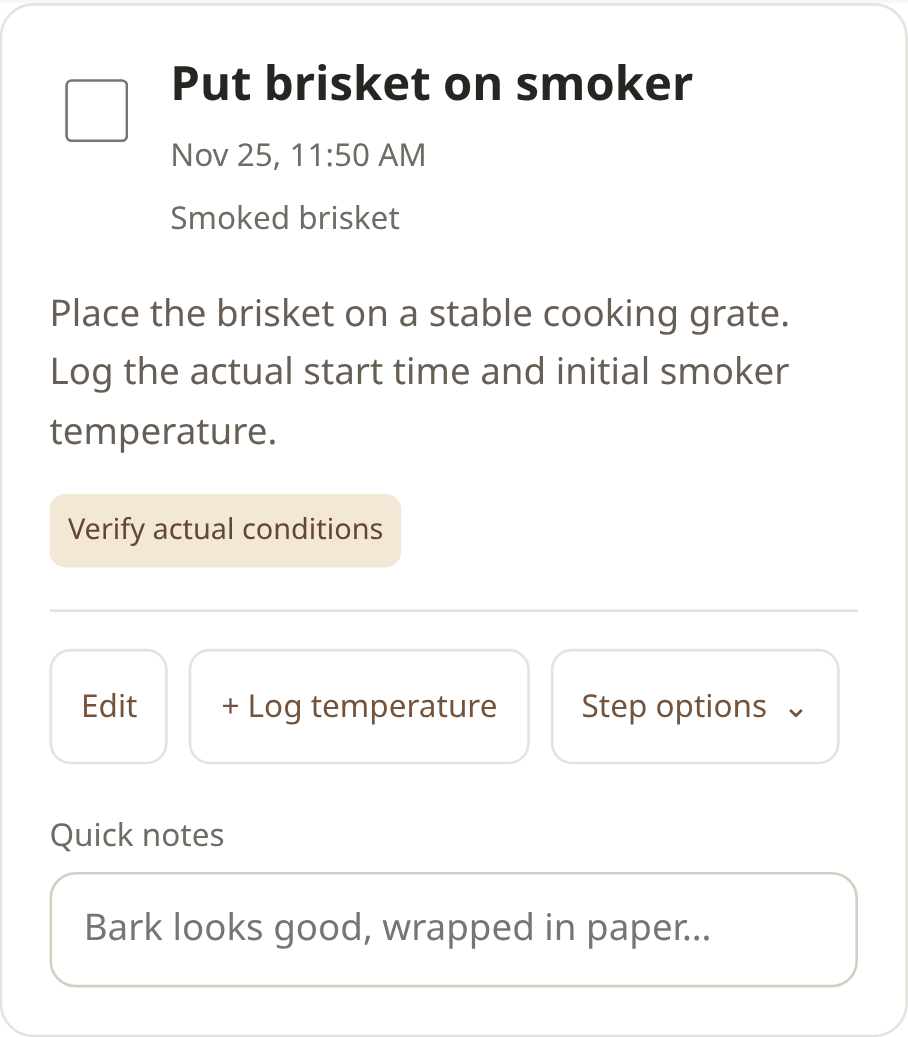
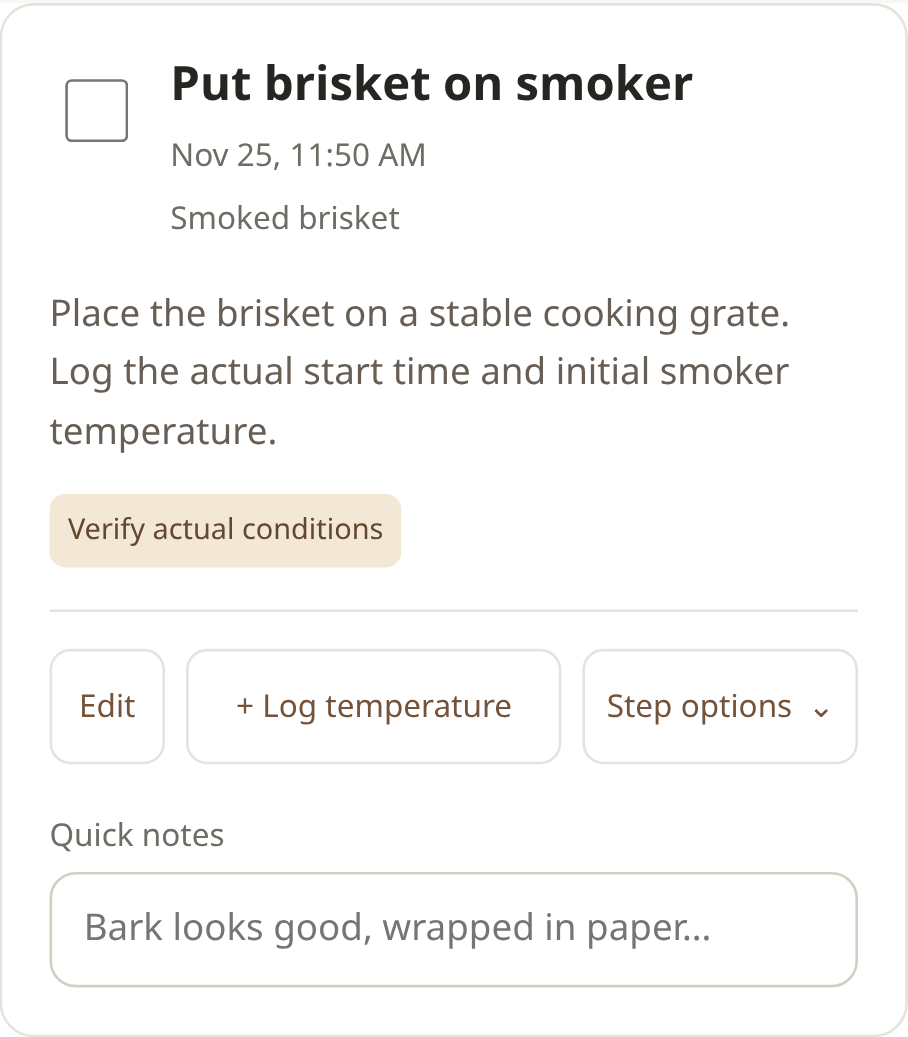
fix: keep cooking actions aligned across browser font metrics

Changed region(s): [[0.2467, 0.6172, 0.9251, 0.7406], [0.0925, 0.648, 0.2159, 0.7406]]

diff --git a/src/app/globals.css b/src/app/globals.css
@@ -447,3 +447,8 @@ footer .build-version{float:right;margin-left:16px;font-family:ui-monospace,SFMo
 .guided-step .note-label{margin:18px 0 6px;font-size:12px;font-weight:500;color:var(--muted)}
 .guided-step .task-note{width:100%;margin-left:0;min-height:44px;font-size:14px;padding:11px 12px}
 @media(max-width:390px){.guided-step .cook-task{padding:14px}.guided-step .task-actions{gap:6px}.guided-step .task-actions>button,.guided-step .step-options>summary{padding:8px;font-size:11px}}
+@media(max-width:600px){
+ .guided-step .task-actions{display:grid;grid-template-columns:max-content minmax(0,1fr) max-content;align-items:start}
+ .guided-step .task-actions>button,.guided-step .step-options>summary{height:44px;padding:6px 8px;line-height:1.2}
+ .guided-step .step-options[open]{grid-column:1 / -1}
+}
